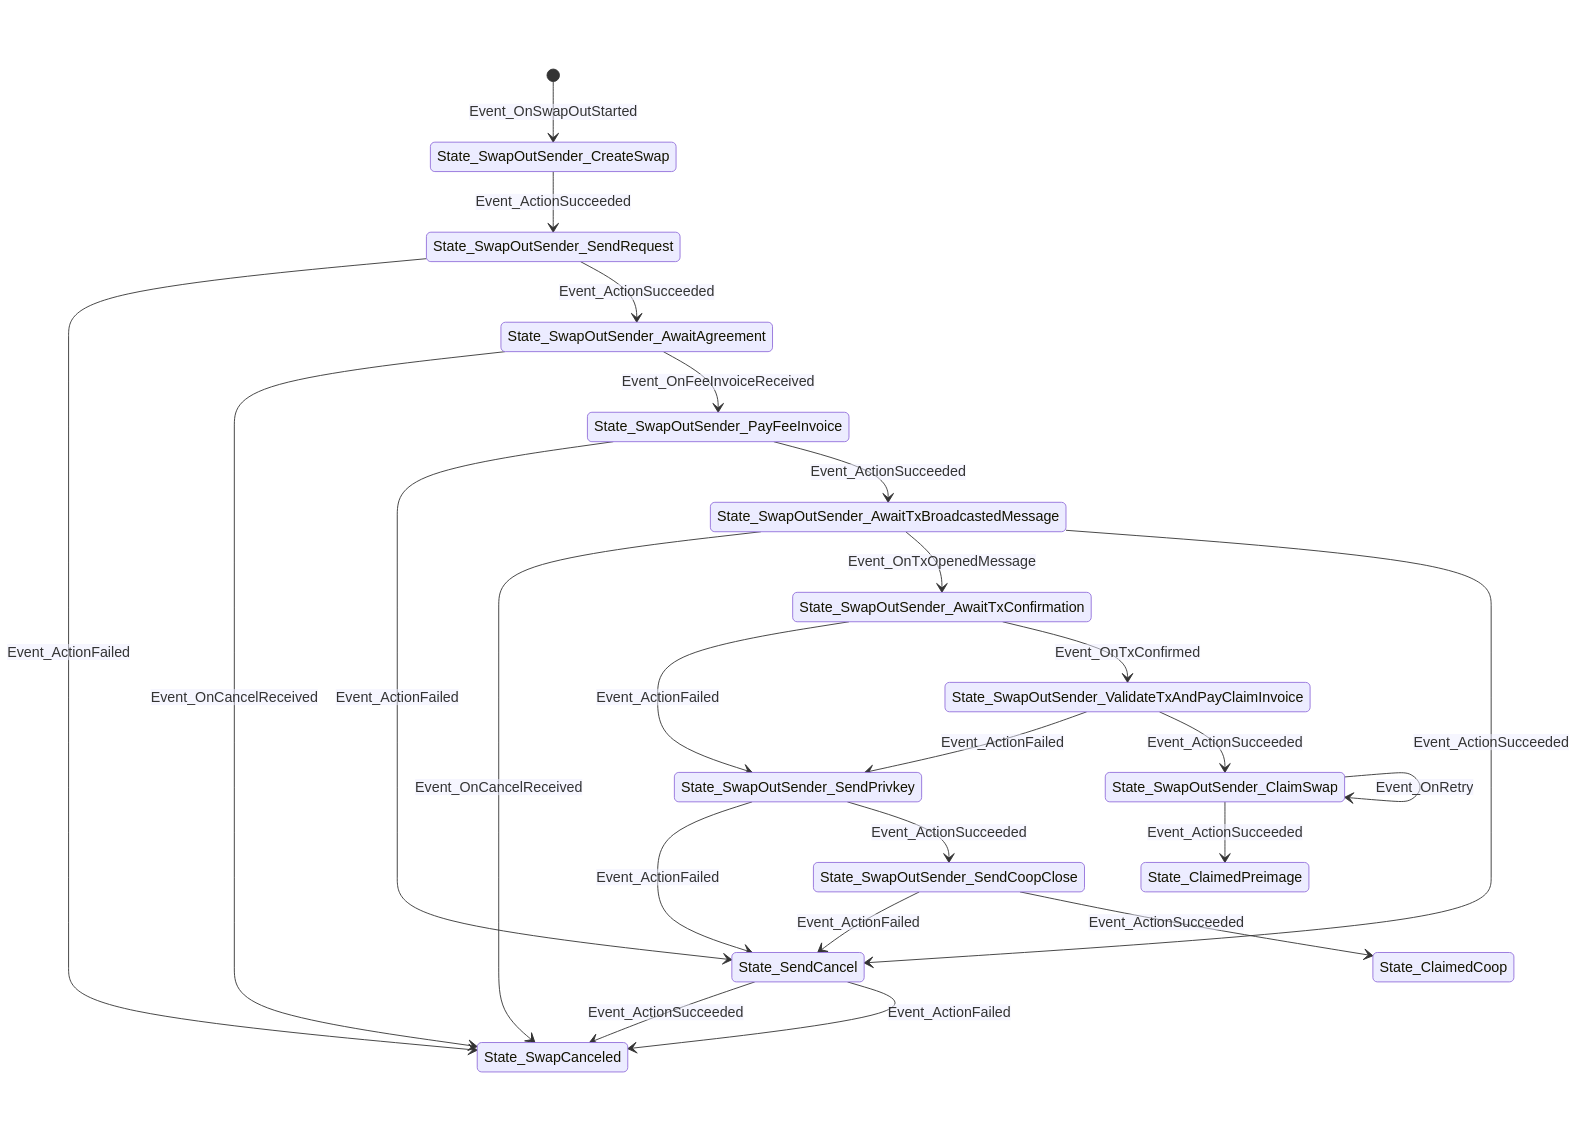
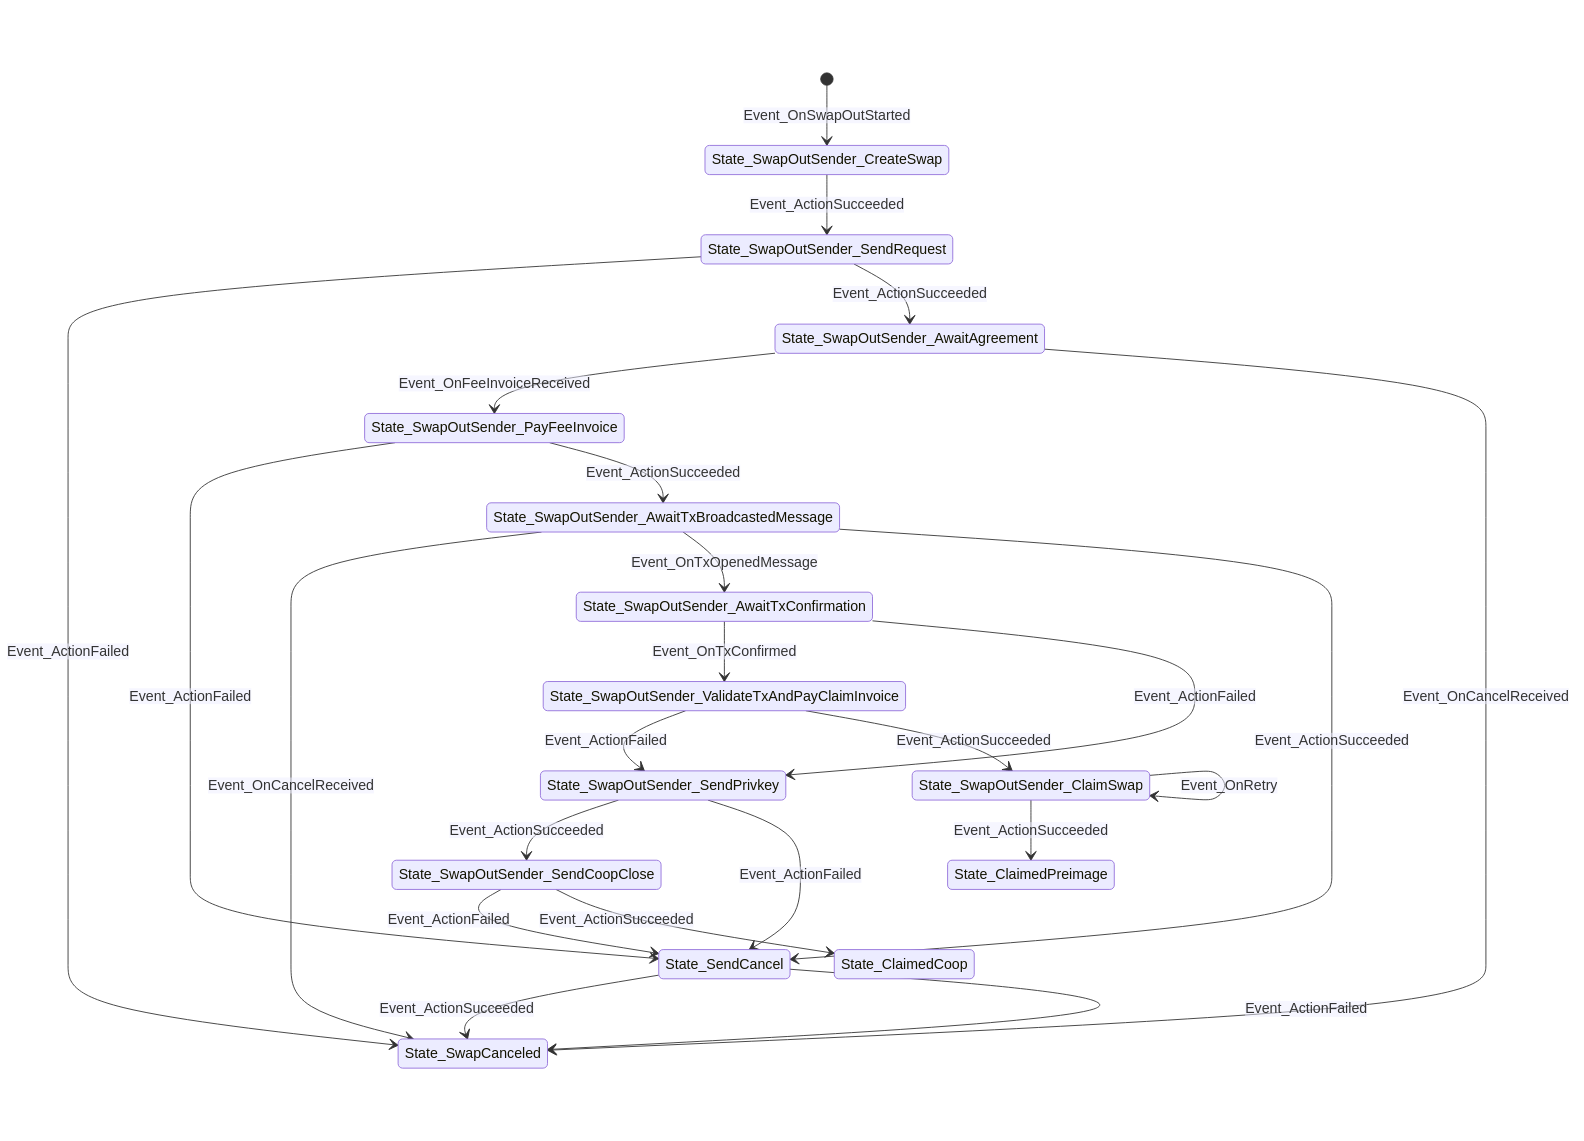
rework stateparser [skip ci]
- Allow for single *.png state images to be created.

diff --git a/contrib/stateparser.go b/contrib/stateparser.go
@@ -2,17 +2,44 @@ package main
 
 import (
 	"flag"
+	"fmt"
+	"os"
 	"path/filepath"
 
 	"github.com/sputn1ck/peerswap/swap"
 )
 
 func main() {
-	dir := flag.String("dir", "./", "destination directory")
+	out := flag.String("out", "", "outfile")
+	stateMachine := flag.String("fsm", "", "the swap state machine to parse")
 	flag.Parse()
 
-	swap.SwapInSenderStatesToMermaid(filepath.Join(*dir, "swap-in-sender-states.md"))
-	swap.SwapInReceiverStatesToMermaid(filepath.Join(*dir, "swap-in-receiver-states.md"))
-	swap.SwapOutSenderStatesToMermaid(filepath.Join(*dir, "swap-out-sender-states.md"))
-	swap.SwapOutReceiverStatesToMermaid(filepath.Join(*dir, "swap-out-receiver-states.md"))
+	if filepath.Ext(*out) != ".md" {
+		fmt.Println("Wrong argument: out must be a .md file")
+		os.Exit(1)
+	}
+
+	fp, err := filepath.Abs(*out)
+	if err != nil {
+		fmt.Println(err.Error())
+		os.Exit(1)
+	}
+
+	switch *stateMachine {
+	case "swap_in_sender":
+		swap.SwapInSenderStatesToMermaid(fp)
+	case "swap_in_receiver":
+		swap.SwapInReceiverStatesToMermaid(fp)
+	case "swap_out_sender":
+		swap.SwapOutSenderStatesToMermaid(fp)
+	case "swap_out_receiver":
+		swap.SwapOutReceiverStatesToMermaid(fp)
+	default:
+		fmt.Println("Missing or wrong argument: fsm must be one of:")
+		fmt.Println("\tswap_in_sender")
+		fmt.Println("\tswap_in_receiver")
+		fmt.Println("\tswap_out_sender")
+		fmt.Println("\tswap_out_receiver")
+		os.Exit(1)
+	}
 }

diff --git a/docs/mmd/swap-out-receiver-states.md b/docs/mmd/swap-out-receiver-states.md
@@ -1,39 +1,39 @@
 ```mermaid
 stateDiagram-v2
-State_SwapCanceled
-State_ClaimedPreimage
-State_ClaimedCoop
 [*] --> State_SwapOutReceiver_CreateSwap: Event_OnSwapOutRequestReceived
-State_SwapOutReceiver_AwaitClaimInvoicePayment
-State_SwapOutReceiver_AwaitClaimInvoicePayment --> State_ClaimedPreimage: Event_OnClaimInvoicePaid
-State_SwapOutReceiver_AwaitClaimInvoicePayment --> State_SwapOutReceiver_ClaimSwapCsv: Event_OnCancelReceived
-State_SwapOutReceiver_AwaitClaimInvoicePayment --> State_SwapOutReceiver_ClaimSwapCoop: Event_OnCoopCloseReceived
-State_SwapOutReceiver_AwaitClaimInvoicePayment --> State_SwapOutReceiver_ClaimSwapCsv: Event_OnCsvPassed
-State_SwapOutReceiver_ClaimSwapCsv
-State_SwapOutReceiver_ClaimSwapCsv --> State_ClaimedCsv: Event_ActionSucceeded
-State_SwapOutReceiver_ClaimSwapCsv --> State_SwapOutReceiver_ClaimSwapCsv: Event_OnRetry
-State_ClaimedCsv
+State_SwapOutReceiver_SendFeeInvoice
+State_SwapOutReceiver_SendFeeInvoice --> State_SendCancel: Event_ActionFailed
+State_SwapOutReceiver_SendFeeInvoice --> State_SwapOutReceiver_AwaitFeeInvoicePayment: Event_ActionSucceeded
+State_SendCancel
+State_SendCancel --> State_SwapCanceled: Event_ActionSucceeded
+State_SendCancel --> State_SwapCanceled: Event_ActionFailed
+State_ClaimedCoop
+State_SwapOutReceiver_SendTxBroadcastedMessage
+State_SwapOutReceiver_SendTxBroadcastedMessage --> State_SwapOutReceiver_AwaitClaimInvoicePayment: Event_ActionSucceeded
+State_SwapOutReceiver_SendTxBroadcastedMessage --> State_SwapOutReceiver_Aborted: Event_ActionFailed
+State_SwapOutReceiver_ClaimSwapCoop
+State_SwapOutReceiver_ClaimSwapCoop --> State_ClaimedCoop: Event_ActionSucceeded
+State_SwapOutReceiver_ClaimSwapCoop --> State_SwapOutReceiver_Aborted: Event_ActionFailed
+State_SwapOutReceiver_Aborted
+State_SwapOutReceiver_Aborted --> State_SwapOutReceiver_ClaimSwapCsv: Event_OnCsvPassed
+State_ClaimedPreimage
 State_SwapOutReceiver_CreateSwap
 State_SwapOutReceiver_CreateSwap --> State_SwapOutReceiver_SendFeeInvoice: Event_ActionSucceeded
 State_SwapOutReceiver_CreateSwap --> State_SendCancel: Event_ActionFailed
 State_SwapOutReceiver_AwaitFeeInvoicePayment
 State_SwapOutReceiver_AwaitFeeInvoicePayment --> State_SwapOutReceiver_BroadcastOpeningTx: Event_OnFeeInvoicePaid
 State_SwapOutReceiver_AwaitFeeInvoicePayment --> State_SwapCanceled: Event_OnCancelReceived
-State_SendCancel
-State_SendCancel --> State_SwapCanceled: Event_ActionSucceeded
-State_SendCancel --> State_SwapCanceled: Event_ActionFailed
-State_SwapOutReceiver_SendFeeInvoice
-State_SwapOutReceiver_SendFeeInvoice --> State_SendCancel: Event_ActionFailed
-State_SwapOutReceiver_SendFeeInvoice --> State_SwapOutReceiver_AwaitFeeInvoicePayment: Event_ActionSucceeded
-State_SwapOutReceiver_SendTxBroadcastedMessage
-State_SwapOutReceiver_SendTxBroadcastedMessage --> State_SwapOutReceiver_AwaitClaimInvoicePayment: Event_ActionSucceeded
-State_SwapOutReceiver_SendTxBroadcastedMessage --> State_SwapOutReceiver_Aborted: Event_ActionFailed
+State_SwapOutReceiver_AwaitClaimInvoicePayment
+State_SwapOutReceiver_AwaitClaimInvoicePayment --> State_SwapOutReceiver_ClaimSwapCsv: Event_OnCancelReceived
+State_SwapOutReceiver_AwaitClaimInvoicePayment --> State_SwapOutReceiver_ClaimSwapCoop: Event_OnCoopCloseReceived
+State_SwapOutReceiver_AwaitClaimInvoicePayment --> State_SwapOutReceiver_ClaimSwapCsv: Event_OnCsvPassed
+State_SwapOutReceiver_AwaitClaimInvoicePayment --> State_ClaimedPreimage: Event_OnClaimInvoicePaid
+State_ClaimedCsv
 State_SwapOutReceiver_BroadcastOpeningTx
 State_SwapOutReceiver_BroadcastOpeningTx --> State_SwapOutReceiver_SendTxBroadcastedMessage: Event_ActionSucceeded
 State_SwapOutReceiver_BroadcastOpeningTx --> State_SendCancel: Event_ActionFailed
-State_SwapOutReceiver_ClaimSwapCoop
-State_SwapOutReceiver_ClaimSwapCoop --> State_ClaimedCoop: Event_ActionSucceeded
-State_SwapOutReceiver_ClaimSwapCoop --> State_SwapOutReceiver_Aborted: Event_ActionFailed
-State_SwapOutReceiver_Aborted
-State_SwapOutReceiver_Aborted --> State_SwapOutReceiver_ClaimSwapCsv: Event_OnCsvPassed
+State_SwapOutReceiver_ClaimSwapCsv
+State_SwapOutReceiver_ClaimSwapCsv --> State_ClaimedCsv: Event_ActionSucceeded
+State_SwapOutReceiver_ClaimSwapCsv --> State_SwapOutReceiver_ClaimSwapCsv: Event_OnRetry
+State_SwapCanceled
 ```

diff --git a/docs/mmd/swap-out-sender-states.md b/docs/mmd/swap-out-sender-states.md
@@ -1,31 +1,23 @@
 ```mermaid
 stateDiagram-v2
-State_SwapOutSender_SendRequest
-State_SwapOutSender_SendRequest --> State_SwapCanceled: Event_ActionFailed
-State_SwapOutSender_SendRequest --> State_SwapOutSender_AwaitAgreement: Event_ActionSucceeded
-State_SwapOutSender_AwaitAgreement
-State_SwapOutSender_AwaitAgreement --> State_SwapCanceled: Event_OnCancelReceived
-State_SwapOutSender_AwaitAgreement --> State_SwapOutSender_PayFeeInvoice: Event_OnFeeInvoiceReceived
-State_SwapOutSender_ValidateTxAndPayClaimInvoice
-State_SwapOutSender_ValidateTxAndPayClaimInvoice --> State_SwapOutSender_SendPrivkey: Event_ActionFailed
-State_SwapOutSender_ValidateTxAndPayClaimInvoice --> State_SwapOutSender_ClaimSwap: Event_ActionSucceeded
-State_SwapOutSender_SendCoopClose
-State_SwapOutSender_SendCoopClose --> State_SendCancel: Event_ActionFailed
-State_SwapOutSender_SendCoopClose --> State_ClaimedCoop: Event_ActionSucceeded
-State_ClaimedPreimage
-[*] --> State_SwapOutSender_CreateSwap: Event_OnSwapOutStarted
-State_SwapOutSender_ClaimSwap
-State_SwapOutSender_ClaimSwap --> State_ClaimedPreimage: Event_ActionSucceeded
-State_SwapOutSender_ClaimSwap --> State_SwapOutSender_ClaimSwap: Event_OnRetry
 State_SwapOutSender_CreateSwap
 State_SwapOutSender_CreateSwap --> State_SwapOutSender_SendRequest: Event_ActionSucceeded
 State_SendCancel
 State_SendCancel --> State_SwapCanceled: Event_ActionSucceeded
 State_SendCancel --> State_SwapCanceled: Event_ActionFailed
+State_SwapOutSender_ValidateTxAndPayClaimInvoice
+State_SwapOutSender_ValidateTxAndPayClaimInvoice --> State_SwapOutSender_SendPrivkey: Event_ActionFailed
+State_SwapOutSender_ValidateTxAndPayClaimInvoice --> State_SwapOutSender_ClaimSwap: Event_ActionSucceeded
 State_SwapOutSender_SendPrivkey
-State_SwapOutSender_SendPrivkey --> State_SendCancel: Event_ActionFailed
 State_SwapOutSender_SendPrivkey --> State_SwapOutSender_SendCoopClose: Event_ActionSucceeded
-State_SwapCanceled
+State_SwapOutSender_SendPrivkey --> State_SendCancel: Event_ActionFailed
+State_ClaimedCoop
+State_SwapOutSender_SendRequest
+State_SwapOutSender_SendRequest --> State_SwapCanceled: Event_ActionFailed
+State_SwapOutSender_SendRequest --> State_SwapOutSender_AwaitAgreement: Event_ActionSucceeded
+State_SwapOutSender_AwaitAgreement
+State_SwapOutSender_AwaitAgreement --> State_SwapOutSender_PayFeeInvoice: Event_OnFeeInvoiceReceived
+State_SwapOutSender_AwaitAgreement --> State_SwapCanceled: Event_OnCancelReceived
 State_SwapOutSender_PayFeeInvoice
 State_SwapOutSender_PayFeeInvoice --> State_SendCancel: Event_ActionFailed
 State_SwapOutSender_PayFeeInvoice --> State_SwapOutSender_AwaitTxBroadcastedMessage: Event_ActionSucceeded
@@ -34,7 +26,15 @@ State_SwapOutSender_AwaitTxBroadcastedMessage --> State_SwapCanceled: Event_OnCa
 State_SwapOutSender_AwaitTxBroadcastedMessage --> State_SwapOutSender_AwaitTxConfirmation: Event_OnTxOpenedMessage
 State_SwapOutSender_AwaitTxBroadcastedMessage --> State_SendCancel: Event_ActionSucceeded
 State_SwapOutSender_AwaitTxConfirmation
-State_SwapOutSender_AwaitTxConfirmation --> State_SwapOutSender_SendPrivkey: Event_ActionFailed
 State_SwapOutSender_AwaitTxConfirmation --> State_SwapOutSender_ValidateTxAndPayClaimInvoice: Event_OnTxConfirmed
-State_ClaimedCoop
+State_SwapOutSender_AwaitTxConfirmation --> State_SwapOutSender_SendPrivkey: Event_ActionFailed
+State_SwapCanceled
+State_ClaimedPreimage
+State_SwapOutSender_SendCoopClose
+State_SwapOutSender_SendCoopClose --> State_SendCancel: Event_ActionFailed
+State_SwapOutSender_SendCoopClose --> State_ClaimedCoop: Event_ActionSucceeded
+[*] --> State_SwapOutSender_CreateSwap: Event_OnSwapOutStarted
+State_SwapOutSender_ClaimSwap
+State_SwapOutSender_ClaimSwap --> State_ClaimedPreimage: Event_ActionSucceeded
+State_SwapOutSender_ClaimSwap --> State_SwapOutSender_ClaimSwap: Event_OnRetry
 ```

diff --git a/docs/mmd/swap-in-receiver-states.md b/docs/mmd/swap-in-receiver-states.md
@@ -1,36 +1,36 @@
 ```mermaid
 stateDiagram-v2
-[*] --> State_SwapInReceiver_CreateSwap: Event_SwapInReceiver_OnRequestReceived
 State_SwapInReceiver_AwaitTxBroadcastedMessage
 State_SwapInReceiver_AwaitTxBroadcastedMessage --> State_SwapInReceiver_AwaitTxConfirmation: Event_OnTxOpenedMessage
 State_SwapInReceiver_AwaitTxBroadcastedMessage --> State_SwapCanceled: Event_OnCancelReceived
 State_SwapInReceiver_AwaitTxBroadcastedMessage --> State_SendCancel: Event_ActionFailed
-State_SwapInReceiver_SendCoopClose
-State_SwapInReceiver_SendCoopClose --> State_ClaimedCoop: Event_ActionSucceeded
-State_SwapInReceiver_SendCoopClose --> State_SendCancel: Event_ActionFailed
-State_SwapInReceiver_ClaimSwap
-State_SwapInReceiver_ClaimSwap --> State_SwapInReceiver_ClaimSwap: Event_OnRetry
-State_SwapInReceiver_ClaimSwap --> State_ClaimedPreimage: Event_ActionSucceeded
-State_SendCancel
-State_SendCancel --> State_SwapCanceled: Event_ActionFailed
-State_SendCancel --> State_SwapCanceled: Event_ActionSucceeded
-State_SwapCanceled
-State_ClaimedCoop
-State_SwapInReceiver_CreateSwap
-State_SwapInReceiver_CreateSwap --> State_SwapInReceiver_SendAgreement: Event_ActionSucceeded
-State_SwapInReceiver_CreateSwap --> State_SendCancel: Event_ActionFailed
-State_SwapInReceiver_SendAgreement
-State_SwapInReceiver_SendAgreement --> State_SwapInReceiver_AwaitTxBroadcastedMessage: Event_ActionSucceeded
-State_SwapInReceiver_SendAgreement --> State_SendCancel: Event_ActionFailed
-State_SwapInReceiver_AwaitTxConfirmation
-State_SwapInReceiver_AwaitTxConfirmation --> State_SwapOutSender_SendPrivkey: Event_OnCancelReceived
-State_SwapInReceiver_AwaitTxConfirmation --> State_SwapInReceiver_ValidateTxAndPayClaimInvoice: Event_OnTxConfirmed
-State_SwapInReceiver_AwaitTxConfirmation --> State_SendCancel: Event_ActionFailed
 State_SwapInReceiver_ValidateTxAndPayClaimInvoice
-State_SwapInReceiver_ValidateTxAndPayClaimInvoice --> State_SwapOutSender_SendPrivkey: Event_ActionFailed
 State_SwapInReceiver_ValidateTxAndPayClaimInvoice --> State_SwapInReceiver_ClaimSwap: Event_ActionSucceeded
+State_SwapInReceiver_ValidateTxAndPayClaimInvoice --> State_SwapOutSender_SendPrivkey: Event_ActionFailed
 State_SwapOutSender_SendPrivkey
 State_SwapOutSender_SendPrivkey --> State_SendCancel: Event_ActionFailed
 State_SwapOutSender_SendPrivkey --> State_SwapInReceiver_SendCoopClose: Event_ActionSucceeded
 State_ClaimedPreimage
+State_SendCancel
+State_SendCancel --> State_SwapCanceled: Event_ActionSucceeded
+State_SendCancel --> State_SwapCanceled: Event_ActionFailed
+State_ClaimedCoop
+[*] --> State_SwapInReceiver_CreateSwap: Event_SwapInReceiver_OnRequestReceived
+State_SwapInReceiver_CreateSwap
+State_SwapInReceiver_CreateSwap --> State_SwapInReceiver_SendAgreement: Event_ActionSucceeded
+State_SwapInReceiver_CreateSwap --> State_SendCancel: Event_ActionFailed
+State_SwapInReceiver_SendCoopClose
+State_SwapInReceiver_SendCoopClose --> State_SendCancel: Event_ActionFailed
+State_SwapInReceiver_SendCoopClose --> State_ClaimedCoop: Event_ActionSucceeded
+State_SwapInReceiver_ClaimSwap
+State_SwapInReceiver_ClaimSwap --> State_ClaimedPreimage: Event_ActionSucceeded
+State_SwapInReceiver_ClaimSwap --> State_SwapInReceiver_ClaimSwap: Event_OnRetry
+State_SwapCanceled
+State_SwapInReceiver_SendAgreement
+State_SwapInReceiver_SendAgreement --> State_SwapInReceiver_AwaitTxBroadcastedMessage: Event_ActionSucceeded
+State_SwapInReceiver_SendAgreement --> State_SendCancel: Event_ActionFailed
+State_SwapInReceiver_AwaitTxConfirmation
+State_SwapInReceiver_AwaitTxConfirmation --> State_SwapInReceiver_ValidateTxAndPayClaimInvoice: Event_OnTxConfirmed
+State_SwapInReceiver_AwaitTxConfirmation --> State_SendCancel: Event_ActionFailed
+State_SwapInReceiver_AwaitTxConfirmation --> State_SwapOutSender_SendPrivkey: Event_OnCancelReceived
 ```

diff --git a/docs/mmd/swap-in-sender-states.md b/docs/mmd/swap-in-sender-states.md
@@ -1,39 +1,39 @@
 ```mermaid
 stateDiagram-v2
-State_ClaimedCoop
-[*] --> State_SwapInSender_CreateSwap: Event_SwapInSender_OnSwapInRequested
 State_SwapInSender_SendTxBroadcastedMessage
 State_SwapInSender_SendTxBroadcastedMessage --> State_SwapInSender_AwaitClaimPayment: Event_ActionSucceeded
 State_SwapInSender_SendTxBroadcastedMessage --> State_WaitCsv: Event_ActionFailed
-State_WaitCsv
-State_WaitCsv --> State_SwapInSender_ClaimSwapCsv: Event_OnCsvPassed
-State_SendCancel
-State_SendCancel --> State_SwapCanceled: Event_ActionSucceeded
-State_SendCancel --> State_SwapCanceled: Event_ActionFailed
-State_ClaimedPreimage
-State_SwapInSender_CreateSwap
-State_SwapInSender_CreateSwap --> State_SwapInSender_SendRequest: Event_ActionSucceeded
-State_SwapInSender_CreateSwap --> State_SwapCanceled: Event_ActionFailed
+State_SwapCanceled
 State_SwapInSender_AwaitClaimPayment
 State_SwapInSender_AwaitClaimPayment --> State_ClaimedPreimage: Event_OnClaimInvoicePaid
 State_SwapInSender_AwaitClaimPayment --> State_SwapInSender_ClaimSwapCsv: Event_OnCsvPassed
 State_SwapInSender_AwaitClaimPayment --> State_WaitCsv: Event_OnCancelReceived
 State_SwapInSender_AwaitClaimPayment --> State_SwapInSender_ClaimSwapCoop: Event_OnCoopCloseReceived
-State_SwapInSender_ClaimSwapCsv
-State_SwapInSender_ClaimSwapCsv --> State_ClaimedCsv: Event_ActionSucceeded
-State_SwapInSender_ClaimSwapCsv --> State_SwapInSender_ClaimSwapCsv: Event_OnRetry
+State_SwapInSender_CreateSwap
+State_SwapInSender_CreateSwap --> State_SwapInSender_SendRequest: Event_ActionSucceeded
+State_SwapInSender_CreateSwap --> State_SwapCanceled: Event_ActionFailed
 State_SwapInSender_AwaitAgreement
 State_SwapInSender_AwaitAgreement --> State_SwapInSender_BroadcastOpeningTx: Event_SwapInSender_OnAgreementReceived
 State_SwapInSender_AwaitAgreement --> State_SwapCanceled: Event_OnCancelReceived
-State_SwapInSender_BroadcastOpeningTx
-State_SwapInSender_BroadcastOpeningTx --> State_SwapInSender_SendTxBroadcastedMessage: Event_ActionSucceeded
-State_SwapInSender_BroadcastOpeningTx --> State_SendCancel: Event_ActionFailed
 State_SwapInSender_ClaimSwapCoop
 State_SwapInSender_ClaimSwapCoop --> State_ClaimedCoop: Event_ActionSucceeded
 State_SwapInSender_ClaimSwapCoop --> State_WaitCsv: Event_ActionFailed
+State_WaitCsv
+State_WaitCsv --> State_SwapInSender_ClaimSwapCsv: Event_OnCsvPassed
+State_ClaimedCoop
+[*] --> State_SwapInSender_CreateSwap: Event_SwapInSender_OnSwapInRequested
 State_SwapInSender_SendRequest
 State_SwapInSender_SendRequest --> State_SwapInSender_AwaitAgreement: Event_ActionSucceeded
 State_SwapInSender_SendRequest --> State_SwapCanceled: Event_ActionFailed
-State_SwapCanceled
+State_SwapInSender_BroadcastOpeningTx
+State_SwapInSender_BroadcastOpeningTx --> State_SwapInSender_SendTxBroadcastedMessage: Event_ActionSucceeded
+State_SwapInSender_BroadcastOpeningTx --> State_SendCancel: Event_ActionFailed
+State_SwapInSender_ClaimSwapCsv
+State_SwapInSender_ClaimSwapCsv --> State_ClaimedCsv: Event_ActionSucceeded
+State_SwapInSender_ClaimSwapCsv --> State_SwapInSender_ClaimSwapCsv: Event_OnRetry
+State_SendCancel
+State_SendCancel --> State_SwapCanceled: Event_ActionSucceeded
+State_SendCancel --> State_SwapCanceled: Event_ActionFailed
+State_ClaimedPreimage
 State_ClaimedCsv
 ```
